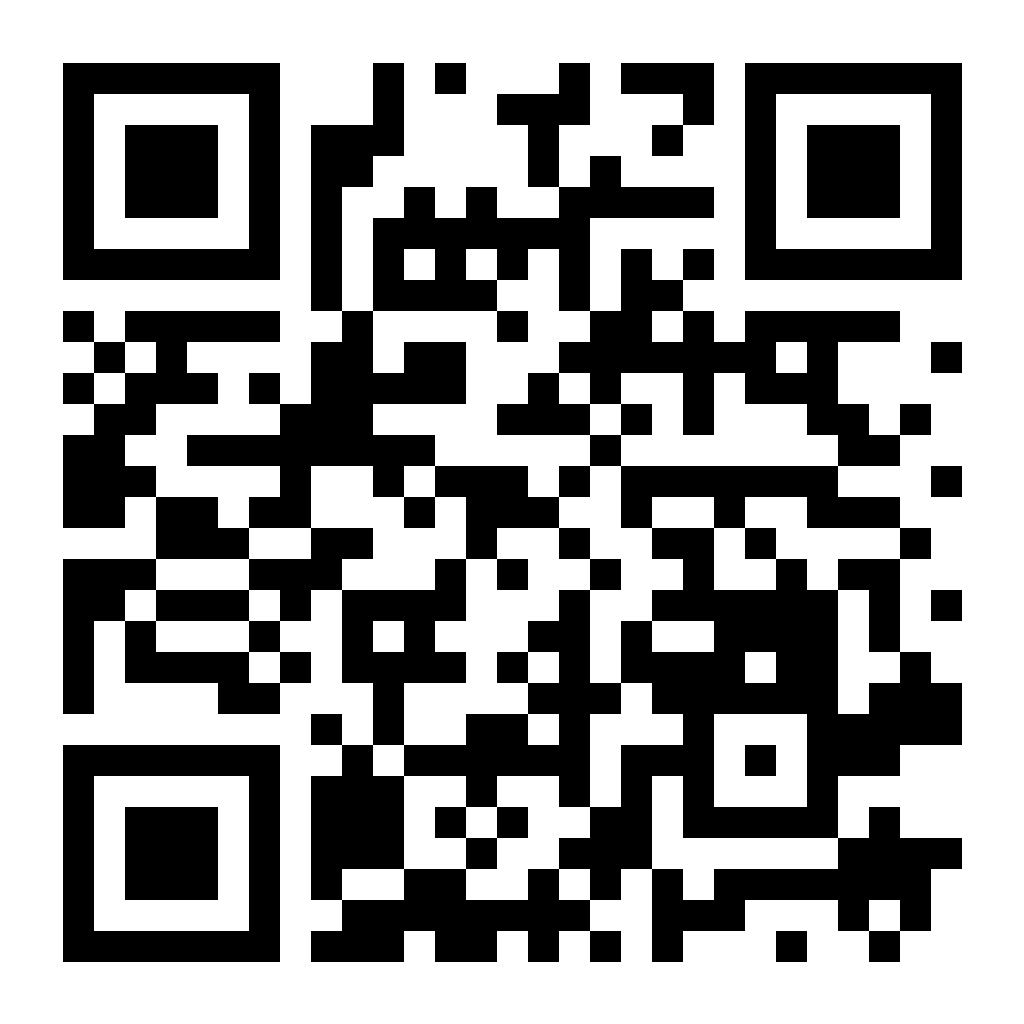
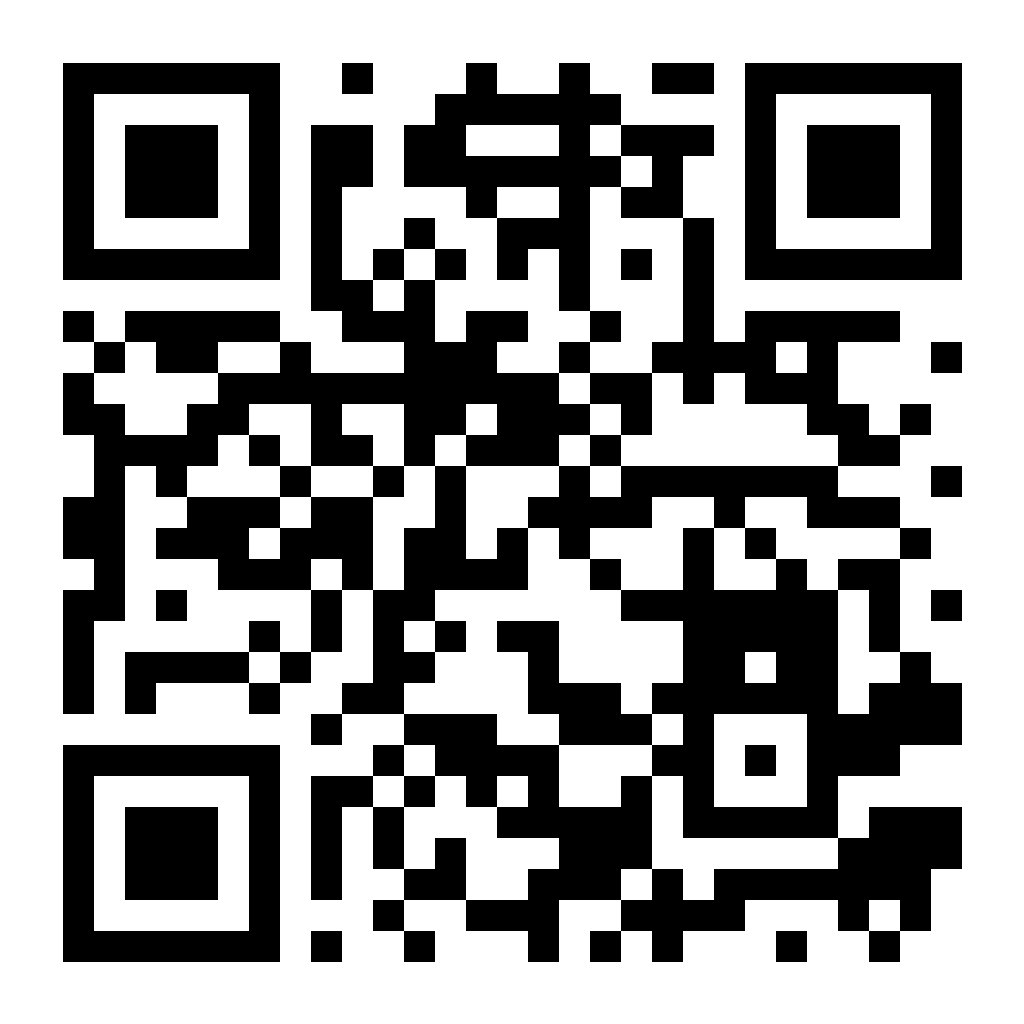
fix: update Android download links and QR code to use production domain nexa-chat-tau.vercel.app

diff --git a/frontend/src/components/download/DownloadPage.jsx b/frontend/src/components/download/DownloadPage.jsx
@@ -21,7 +21,7 @@ export const DownloadPage = ({ onNavigateHome }) => {
   // GitHub Release direct download URL and Releases page
   const githubReleaseUrl = 'https://github.com/Aakash-18-2006/Nexa-Chat-/releases/latest/download/NEXA-Android.apk';
   const githubReleasesPage = 'https://github.com/Aakash-18-2006/Nexa-Chat-/releases';
-  const downloadPageUrl = typeof window !== 'undefined' ? `${window.location.origin}/download` : 'https://nexa-chat.vercel.app/download';
+  const downloadPageUrl = typeof window !== 'undefined' ? `${window.location.origin}/download` : 'https://nexa-chat-tau.vercel.app/download';
 
   const handleCopyLink = () => {
     if (navigator.clipboard) {

diff --git a/frontend/src/components/chat/Sidebar.jsx b/frontend/src/components/chat/Sidebar.jsx
@@ -290,7 +290,7 @@ export const Sidebar = ({
           {/* Mobile Action Icons (hidden on desktop because NavigationRail provides them) */}
           <div className="flex md:hidden items-center gap-0.5">
             <a
-              href="https://nexa-chat.vercel.app/download"
+              href="https://nexa-chat-tau.vercel.app/download"
               target="_blank"
               rel="noopener noreferrer"
               className="p-2 rounded-xl text-slate-300 hover:text-[#ff1744] hover:bg-white/5 transition-colors cursor-pointer"

diff --git a/frontend/src/components/chat/NavigationRail.jsx b/frontend/src/components/chat/NavigationRail.jsx
@@ -165,7 +165,7 @@ export const NavigationRail = ({
 
           {/* Download NEXA for Android */}
           <a
-            href="https://nexa-chat.vercel.app/download"
+            href="https://nexa-chat-tau.vercel.app/download"
             target="_blank"
             rel="noopener noreferrer"
             className="nexa-rail-btn group"

diff --git a/frontend/src/components/chat/CommandPalette.jsx b/frontend/src/components/chat/CommandPalette.jsx
@@ -106,7 +106,7 @@ export const CommandPalette = ({
       icon: Smartphone,
       category: 'App',
       run: () => {
-        window.open('https://nexa-chat.vercel.app/download', '_blank');
+        window.open('https://nexa-chat-tau.vercel.app/download', '_blank');
       }
     },
     {

diff --git a/README.md b/README.md
@@ -177,7 +177,7 @@ node scratch/test_persistence_after_restart.js
    - `PORT`: `5000` (or host provided)
    - `MONGODB_URI`: Your MongoDB Atlas connection string (`mongodb+srv://...`)
    - `JWT_SECRET`: A secure random 32+ character string
-   - `CLIENT_URL`: URL of your deployed frontend (e.g. `https://nexa-chat.vercel.app`)
+   - `CLIENT_URL`: URL of your deployed frontend (e.g. `https://nexa-chat-tau.vercel.app`)
    - `GEMINI_API_KEY`: *(Optional)* Google Gemini API key for advanced AI features
 
 ---
